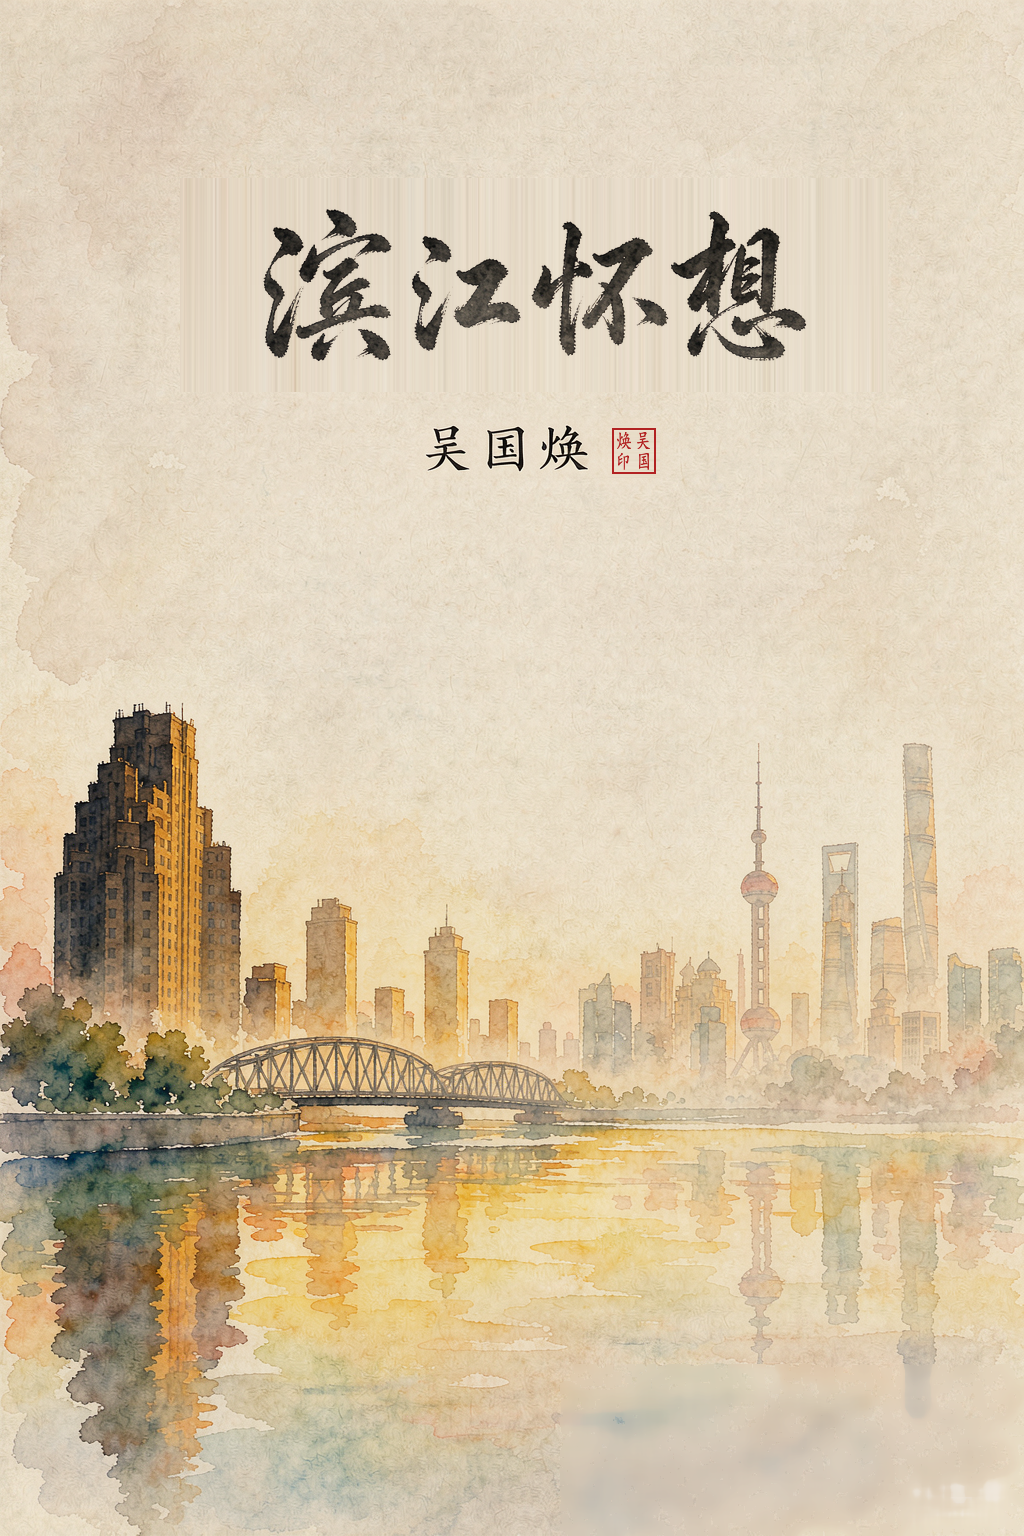
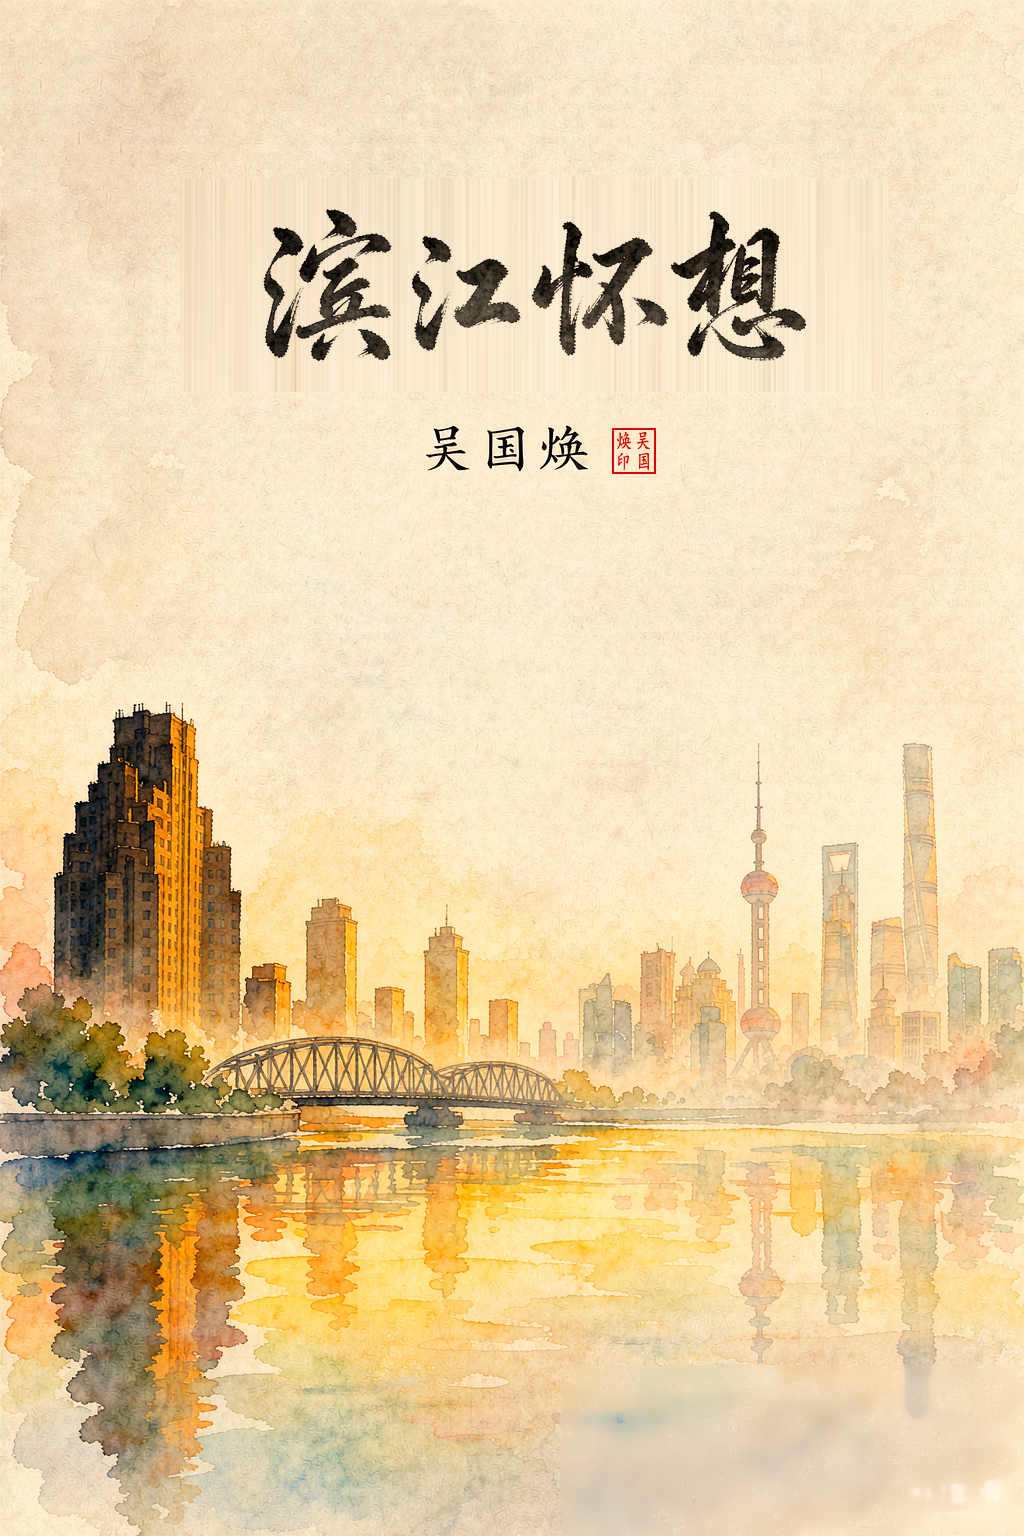
首屏改版：封面铺满、按钮移入封面底部、封面提亮

diff --git a/book/style.css b/book/style.css
@@ -4,17 +4,25 @@ body{background:#f5efe2;color:#2c2620;line-height:1.85;
 font-family:"Songti SC","Noto Serif CJK SC",STSong,SimSun,"宋体",serif;-webkit-tap-highlight-color:transparent;-webkit-font-smoothing:antialiased}
 a{color:#9c3b32}
 .wrap{max-width:760px;margin:0 auto;padding:0 20px 70px}
+/* 首屏：宽屏下封面完整显示不裁切；手机竖屏下满宽放大（仅裁左右窄边，书名与外白渡桥完整保留） */
 .cover{min-height:100vh;display:flex;flex-direction:column;align-items:center;justify-content:center;
-padding:40px 24px;text-align:center}
-.cover img{width:min(62vw,258px);border-radius:6px;display:block;margin:0 auto 30px;
-box-shadow:0 14px 40px rgba(80,55,20,.28)}
-.cover .go{display:inline-block;background:#9c3b32;color:#fff;text-decoration:none;
-border-radius:100px;padding:13px 42px;font-size:15px}
-.tips{margin-top:26px;max-width:330px;width:100%;border:1px solid #e2d8c4;border-radius:10px;
-padding:16px 20px 14px;text-align:left;background:rgba(255,253,247,.6)}
+padding:0 14px 14px;text-align:center}
+.cimg{position:relative;width:100%;margin:0 0 14px}
+.cimg img{width:min(100%,380px);height:auto;max-height:76vh;object-fit:contain;
+border-radius:6px;display:block;margin:0 auto}
+.cimg .go{position:absolute;left:50%;bottom:20px;transform:translateX(-50%);
+white-space:nowrap;background:rgba(156,59,50,.94);color:#fff;text-decoration:none;
+border-radius:100px;padding:11px 40px;font-size:15.5px;letter-spacing:.14em;
+box-shadow:0 6px 18px rgba(60,35,10,.38)}
+.tips{margin:0;max-width:340px;width:100%;border:1px solid #e2d8c4;border-radius:10px;
+padding:12px 18px 10px;text-align:left;background:rgba(255,253,247,.6)}
+@media (max-aspect-ratio:3/4){
+.cimg img{width:100%;height:calc(100vh - 150px);max-height:none;
+object-fit:cover;object-position:center}
+}
 .tips .tt{text-align:center;font-size:14px;letter-spacing:.24em;color:#9c3b32;font-weight:600;
 margin-bottom:10px;font-family:"Kaiti SC",KaiTi,"楷体",serif}
-.tips .tr{font-size:12.5px;color:#5c5347;line-height:2.05;font-family:"Kaiti SC",KaiTi,"楷体",serif}
+.tips .tr{font-size:12.5px;color:#5c5347;line-height:1.9;font-family:"Kaiti SC",KaiTi,"楷体",serif}
 .tips .tr b{color:#2c2620;font-weight:600}
 /* ---- 可折叠目录页 ---- */
 .toc-new{max-width:520px;padding-top:18px}

diff --git a/book/index.html b/book/index.html
@@ -9,8 +9,10 @@
 </head>
 <body>
 <div class="cover">
+<div class="cimg">
 <img src="../cover_small.jpg" alt="《滨江怀想》封面">
 <a class="go" href="p01.html">开始阅读</a>
+</div>
 <div class="tips">
 <div class="tt">温馨提示</div>
 <div class="tr"><b>点击屏幕右下角</b> —— 下一页</div>
